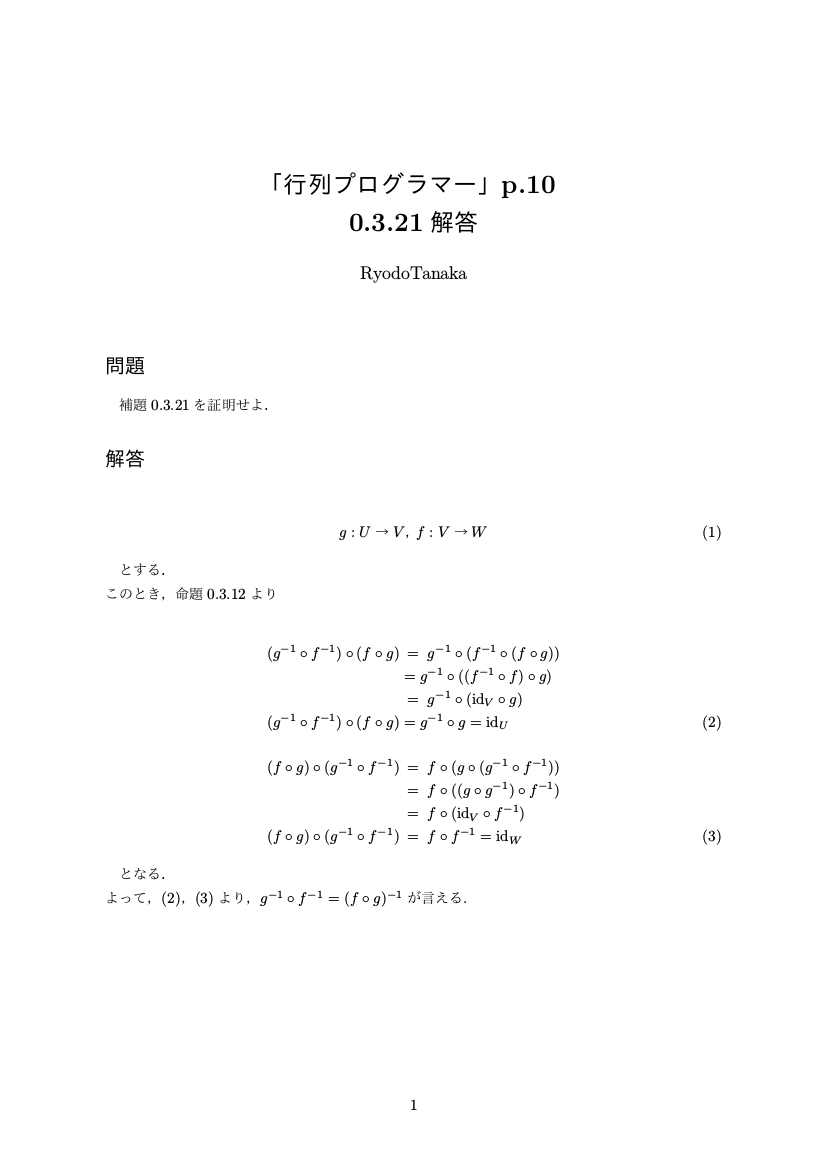
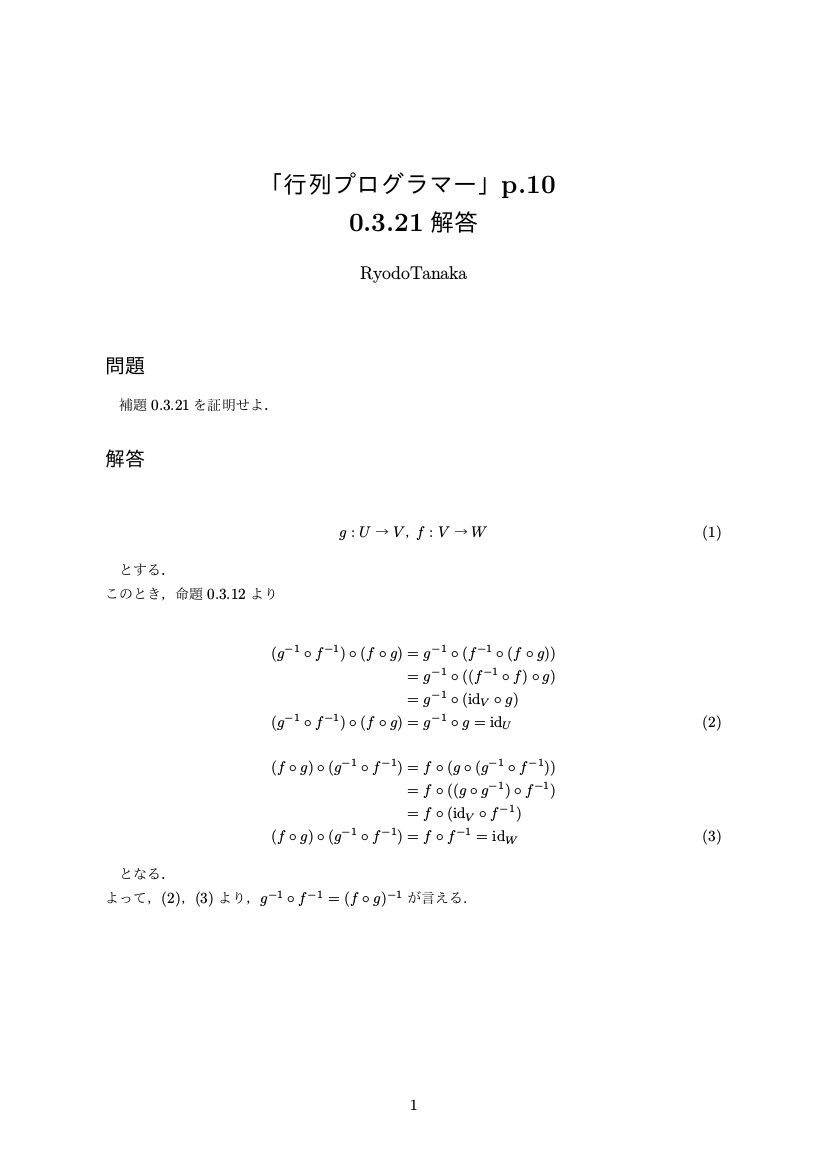
[fix] typo

diff --git a/python/chap_0/0.3.21/0.3.21.tex b/python/chap_0/0.3.21/0.3.21.tex
@@ -38,9 +38,9 @@ g:U→V，f:V→W
 
 \begin{eqnarray}
  (g^{-1}\circ f^{-1})\circ (f\circ g)&=&g^{-1}\circ (f^{-1}\circ (f\circ g)) \nonumber \\
- &=g&^{-1}\circ ((f^{-1}\circ f)\circ g) \nonumber \\
+ &=&g^{-1}\circ ((f^{-1}\circ f)\circ g) \nonumber \\
  &=&g^{-1}\circ ({\rm id}_V\circ g) \nonumber \\
- (g^{-1}\circ f^{-1})\circ (f\circ g)&=g&^{-1}\circ g={\rm id}_U\label{032450_7Jun17} \\
+ (g^{-1}\circ f^{-1})\circ (f\circ g)&=&g^{-1}\circ g={\rm id}_U\label{032450_7Jun17} \\
  \nonumber \\
  (f\circ g)\circ (g^{-1}\circ f^{-1})&=&f\circ (g\circ (g^{-1}\circ f^{-1})) \nonumber\\
  &=&f\circ ((g\circ g^{-1})\circ f^{-1}) \nonumber \\
